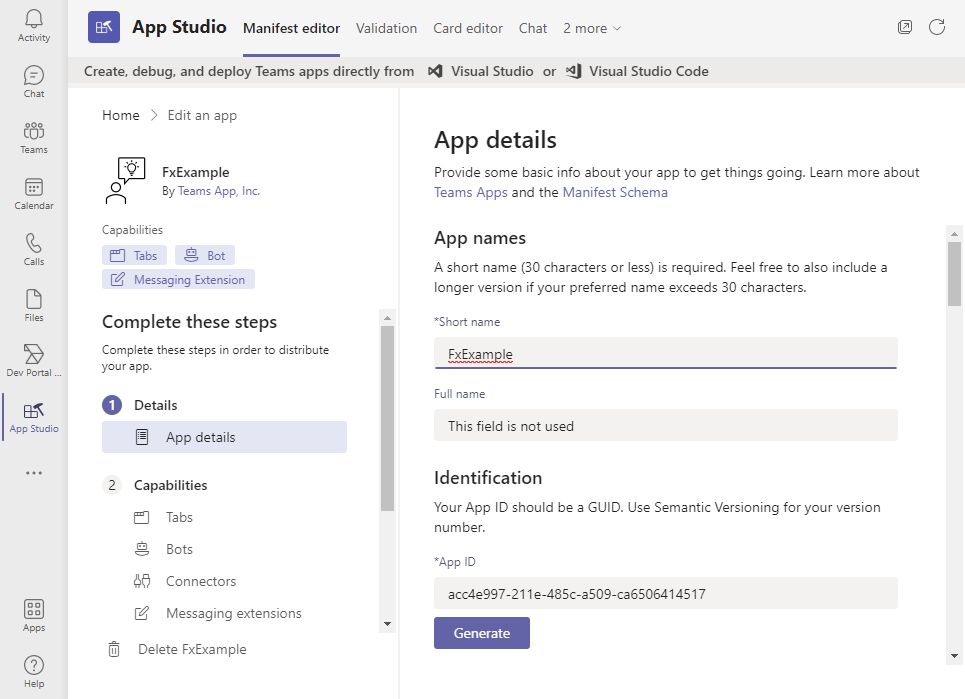
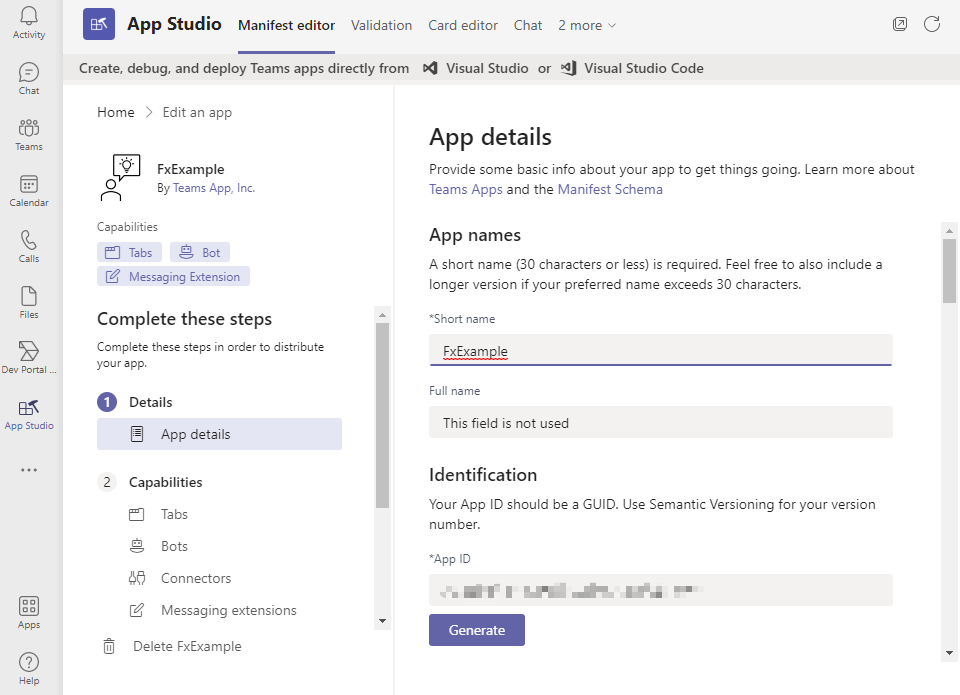
feat(tabs/teamsdev/deeplink): hide sensitive information

diff --git a/tabs/src/components/teamsdev/tab/Deeplink.jsx b/tabs/src/components/teamsdev/tab/Deeplink.jsx
@@ -14,7 +14,7 @@ function CreateNewMeeting() {
 
 function MoveToTab() {
   const appId = process.env.REACT_APP_APP_ID;
-  var encodedWebUrl = encodeURI(process.env.REACT_APP_WEB_SITE + '/#/ui');
+  var encodedWebUrl = encodeURI(process.env.REACT_APP_WEBSITE + '/#/ui');
   var encodedContext = encodeURI('{ "subEntityId": "ui" "subEntityLabel": "ui", subEntityWebUrl: ' + encodedWebUrl + '}');
   var url = 'https://teams.microsoft.com/l/entity/' + appId + '/ui?webUrl=' + encodedWebUrl + '&context=' + encodedContext;
   microsoftTeams.executeDeepLink(url);
@@ -53,12 +53,13 @@ export default function DeepLink() {
       <Flex column>
         <Flex>
           <Text weight="regular" size="large"> 
-            2. You can find your App id in Teams App Studio:
+            2. You can find your App id and website in Teams App Studio:
           </Text>
         </Flex>
         <Flex class="StepContent"><Image src="pic/App_studio_location.png" /></Flex>
         <Flex class="StepContent"><Image src="pic/Edit_your_app.png" /></Flex>
         <Flex class="StepContent"><Image src="pic/App_id.png" /></Flex>
+        <Flex class="StepContent"><Image fluid src="pic/App_website.png" /></Flex>
       </Flex>
       <Flex column>
         <Flex>
